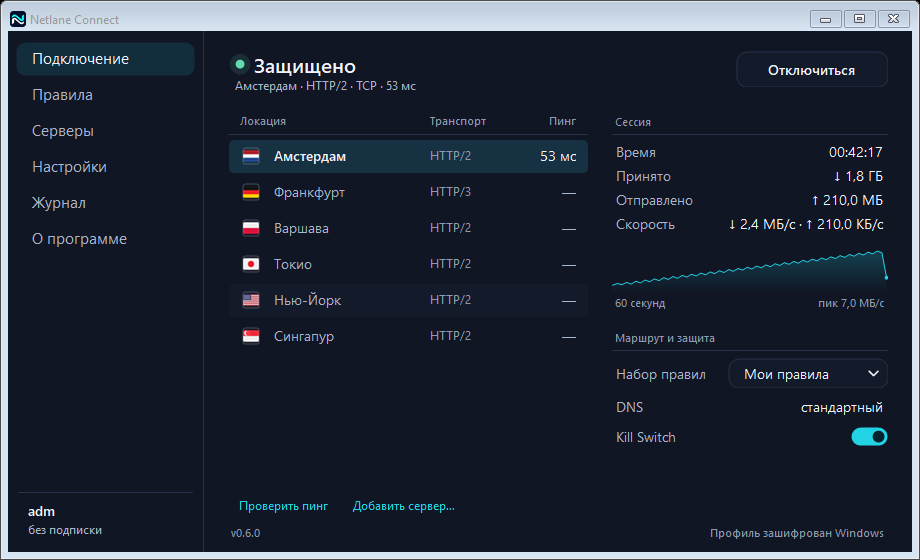
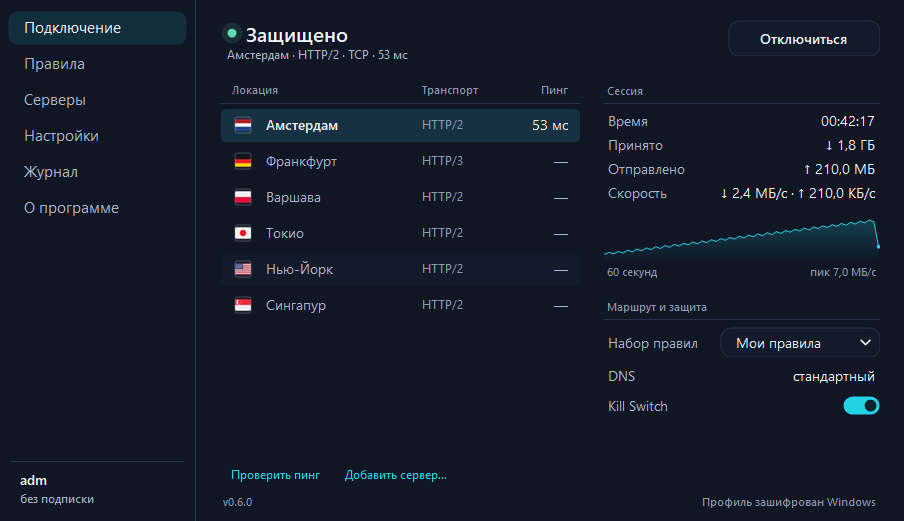
Убрать названия RouteHub, исправить кнопку «Экспорт», скриншот без рамки
- Удалён перенос данных и файлов правил прежнего названия RouteHub
  (папка RouteHubVPN, ключ профиля, формат routehub-rules, *.rhrules).
  Перенос с WinTrustTunnel остаётся.
- Нижние кнопки редактора правил: «Удалить выбранное» → «Удалить»,
  ширины колонок рассчитаны так, чтобы «Экспорт» помещался целиком
  вплоть до минимального размера окна.
- --render сохраняет только клиентскую область: DrawToBitmap рисует
  рамку окна в классическом стиле.
- Скриншот в README без системной рамки.

Claude-Session: https://claude.ai/code/session_01DxZNdbwZNJsFXxsfhcynaT

diff --git a/clients/windows/Tests.cs b/clients/windows/Tests.cs
@@ -392,7 +392,7 @@ namespace Netlane {
             using (SettingsForm settings = new SettingsForm(host)) {
                 RuleSet first = settings.ImportRulesFile(file), second = settings.ImportRulesFile(file);
                 Check(first != null && first.Name == "Office" && first.Routing.Destinations.SequenceEqual(new[] { "office.example.com" }) && second != null && second.Name == "Office (2)", "Dropping Office.netlanerules twice makes «Office» and «Office (2)».");
-                Check(SettingsForm.DropKind(file) == "rules" && SettingsForm.DropKind(@"C:\x\p.TOML") == "server" && SettingsForm.DropKind(@"C:\x\a.wttrules") == "rules" && SettingsForm.DropKind(@"C:\x\a.rhrules") == "rules" && SettingsForm.DropKind("a.exe") == null, "Drop kinds by extension.");
+                Check(SettingsForm.DropKind(file) == "rules" && SettingsForm.DropKind(@"C:\x\p.TOML") == "server" && SettingsForm.DropKind(@"C:\x\a.wttrules") == "rules" && SettingsForm.DropKind("a.exe") == null, "Drop kinds by extension.");
             }
         }
         static void FlagTests() {
@@ -508,10 +508,6 @@ namespace Netlane {
             dir=TempDir();byte[] plain=Encoding.UTF8.GetBytes(Profile.Import(Fixture).Serialize());
             File.WriteAllBytes(Path.Combine(dir,"profile.bin"),ProtectedData.Protect(plain,ProfileStore.LegacyEntropy,DataProtectionScope.CurrentUser));
             m=StateStore.LoadOrMigrate(dir,out notice);Check(notice==null&&m.Servers.Count==1,"Legacy entropy migrates.");
-            // The older RouteHubVPN entropy stays readable too.
-            dir=TempDir();
-            File.WriteAllBytes(Path.Combine(dir,"profile.bin"),ProtectedData.Protect(plain,ProfileStore.LegacyRouteHubEntropy,DataProtectionScope.CurrentUser));
-            m=StateStore.LoadOrMigrate(dir,out notice);Check(notice==null&&m.Servers.Count==1,"RouteHub entropy migrates.");
             // A corrupted profile is left untouched and the client starts empty with a notice.
             dir=TempDir();File.WriteAllBytes(Path.Combine(dir,"profile.bin"),new byte[]{1,2,3,4});
             m=StateStore.LoadOrMigrate(dir,out notice);
@@ -961,7 +957,7 @@ namespace Netlane {
                 string rulesFile=RulesFile.Export(shared);
                 Check(!rulesFile.Contains(profile.Password)&&!rulesFile.Contains(profile.Hostname),"Rules file leaks credentials.");
                 Routing restored=RulesFile.Import(rulesFile);
-                Check(rulesFile.Contains("\"netlane-rules\"")&&RulesFile.Import(rulesFile.Replace("\"netlane-rules\"","\"wintrusttunnel-rules\"")).Destinations.Count==restored.Destinations.Count&&RulesFile.Import(rulesFile.Replace("\"netlane-rules\"","\"routehub-rules\"")).Destinations.Count==restored.Destinations.Count,"Rules files from earlier versions are not importable.");
+                Check(rulesFile.Contains("\"netlane-rules\"")&&RulesFile.Import(rulesFile.Replace("\"netlane-rules\"","\"wintrusttunnel-rules\"")).Destinations.Count==restored.Destinations.Count,"Rules files from earlier versions are not importable.");
                 Check(restored.Mode=="selective"&&restored.Destinations.Count==2&&restored.Destinations[0]=="*.example.com","Rules file round trip failed.");
                 foreach(string malformed in new[]{"{\"format\":\"other\"}","{\"format\":\"netlane-rules\",\"version\":2,\"routing\":{}}","{\"format\":\"netlane-rules\",\"version\":1}","","["}){bool rulesRejected=false;try{RulesFile.Import(malformed);}catch(FormatException){rulesRejected=true;}Check(rulesRejected,"Malformed rules file accepted: "+malformed);}
                 Profile oversized=Profile.Import(Fixture);for(int i=0;i<256;i++)oversized.Routing.Destinations.Add(new string('a',60)+"."+new string('b',60)+"."+new string('c',60)+".route"+i+".example.com");bool oversizedRejected=false;try{oversized.Serialize();}catch(FormatException){oversizedRejected=true;}Check(oversizedRejected,"Oversized profile would exceed worker or storage limits.");

diff --git a/clients/windows/RuleSetEditor.cs b/clients/windows/RuleSetEditor.cs
@@ -8,7 +8,7 @@ using System.Windows.Forms;
 
 namespace Netlane {
     // Editor of one rule set (spec §3), the former routing window as a control: mode, tabs with
-    // counts, the active list, and one footer row «Импорт · Экспорт · Удалить выбранное … Сохранить»
+    // counts, the active list, and one footer row «Импорт · Экспорт · Удалить … Сохранить»
     // docked to the bottom so it stays in place however the window is resized.
     internal sealed class RuleSetEditor : UserControl {
         internal Routing Value { get; private set; }
@@ -58,9 +58,9 @@ namespace Netlane {
             Label help = MainForm.TextLabel("Без порта и без http://, например example.com, *.example.com, 192.0.2.5, 10.0.0.0/8.", Theme.SmallSize, Theme.Faint); help.Margin = new Padding(0, 6, 0, 0); layout.Controls.Add(help, 0, 4);
             // Footer: one row, buttons sized to their text, «Сохранить» in the right corner.
             TableLayoutPanel footer = new TableLayoutPanel { Dock = DockStyle.Fill, ColumnCount = 5, RowCount = 1, Margin = new Padding(0), BackColor = Theme.Ground };
-            footer.ColumnStyles.Add(new ColumnStyle(SizeType.Absolute, 92)); footer.ColumnStyles.Add(new ColumnStyle(SizeType.Absolute, 92)); footer.ColumnStyles.Add(new ColumnStyle(SizeType.Absolute, 168)); footer.ColumnStyles.Add(new ColumnStyle(SizeType.Percent, 100)); footer.ColumnStyles.Add(new ColumnStyle(SizeType.Absolute, 124));
+            footer.ColumnStyles.Add(new ColumnStyle(SizeType.Absolute, 94)); footer.ColumnStyles.Add(new ColumnStyle(SizeType.Absolute, 104)); footer.ColumnStyles.Add(new ColumnStyle(SizeType.Absolute, 100)); footer.ColumnStyles.Add(new ColumnStyle(SizeType.Percent, 100)); footer.ColumnStyles.Add(new ColumnStyle(SizeType.Absolute, 112));
             footer.RowStyles.Add(new RowStyle(SizeType.Percent, 100));
-            Button import = MainForm.Button("Импорт", false), export = MainForm.Button("Экспорт", false), removeSelected = MainForm.Button("Удалить выбранное", false), save = MainForm.Button("Сохранить", true);
+            Button import = MainForm.Button("Импорт", false), export = MainForm.Button("Экспорт", false), removeSelected = MainForm.Button("Удалить", false), save = MainForm.Button("Сохранить", true);
             import.Margin = new Padding(0, 0, 8, 0); export.Margin = new Padding(0, 0, 8, 0); removeSelected.Margin = new Padding(0); save.Margin = new Padding(0);
             footer.Controls.Add(import, 0, 0); footer.Controls.Add(export, 1, 0); footer.Controls.Add(removeSelected, 2, 0); footer.Controls.Add(save, 4, 0);
             layout.Controls.Add(footer, 0, 5);
@@ -87,7 +87,7 @@ namespace Netlane {
                 }
             };
             import.Click += delegate {
-                using (OpenFileDialog dialog = new OpenFileDialog { Filter = "Правила Netlane (*.netlanerules;*.wttrules;*.rhrules;*.json)|*.netlanerules;*.wttrules;*.rhrules;*.json", Title = "Импорт правил в этот набор" }) {
+                using (OpenFileDialog dialog = new OpenFileDialog { Filter = "Правила Netlane (*.netlanerules;*.wttrules;*.json)|*.netlanerules;*.wttrules;*.json", Title = "Импорт правил в этот набор" }) {
                     if (dialog.ShowDialog(this) != DialogResult.OK) return;
                     try {
                         if (new FileInfo(dialog.FileName).Length > 65536) throw new FormatException("Файл правил слишком большой.");

diff --git a/clients/windows/Profile.cs b/clients/windows/Profile.cs
@@ -128,18 +128,15 @@ namespace Netlane {
         internal static readonly byte[] Entropy = Encoding.UTF8.GetBytes("Netlane.profile.v1");
         // Profiles saved before the rename: read once, then re-encrypted with the current entropy.
         internal static readonly byte[] LegacyEntropy = Encoding.UTF8.GetBytes("WinTrustTunnel.profile.v1");
-        internal static readonly byte[] LegacyRouteHubEntropy = Encoding.UTF8.GetBytes("RouteHubVPN.profile.v1");
         internal const string DataFolder = "Netlane";
         internal const string LegacyDataFolder = "WinTrustTunnel";
-        internal const string LegacyRouteHubDataFolder = "RouteHubVPN";
         internal static string DataDirectory { get { return MigrateDataDirectory(Environment.GetFolderPath(Environment.SpecialFolder.LocalApplicationData)); } }
         // Moves the profile and log folder of a former app name once; keeps using it if the move is impossible.
         internal static string MigrateDataDirectory(string root) {
             string current = Path.Combine(root, DataFolder);
             if (Directory.Exists(current)) return current;
-            foreach (string legacyName in new[] { LegacyDataFolder, LegacyRouteHubDataFolder }) {
-                string legacy = Path.Combine(root, legacyName);
-                if (!Directory.Exists(legacy)) continue;
+            string legacy = Path.Combine(root, LegacyDataFolder);
+            if (Directory.Exists(legacy)) {
                 try { Directory.Move(legacy, current); return current; }
                 catch (IOException) { return legacy; }
                 catch (UnauthorizedAccessException) { return legacy; }
@@ -163,8 +160,7 @@ namespace Netlane {
             try { plain = ProtectedData.Unprotect(sealedBytes, Entropy, DataProtectionScope.CurrentUser); }
             catch (CryptographicException) {
                 legacy = true;
-                try { plain = ProtectedData.Unprotect(sealedBytes, LegacyEntropy, DataProtectionScope.CurrentUser); }
-                catch (CryptographicException) { plain = ProtectedData.Unprotect(sealedBytes, LegacyRouteHubEntropy, DataProtectionScope.CurrentUser); }
+                plain = ProtectedData.Unprotect(sealedBytes, LegacyEntropy, DataProtectionScope.CurrentUser);
             }
             Profile profile;
             try { profile = Profile.Deserialize(Encoding.UTF8.GetString(plain)); } finally { Array.Clear(plain, 0, plain.Length); }

diff --git a/clients/windows/Routing.cs b/clients/windows/Routing.cs
@@ -82,9 +82,8 @@ namespace Netlane {
     // Portable rules file: deliberately contains no credentials, hostname or password.
     public static class RulesFile {
         public const string Format = "netlane-rules";
-        // Files exported by the former product names (*.wttrules, *.rhrules) stay importable.
+        // Files exported under the former product name (*.wttrules) stay importable.
         public const string LegacyFormat = "wintrusttunnel-rules";
-        public const string LegacyRouteHubFormat = "routehub-rules";
         public const int Version = 1;
         sealed class Envelope {
             public string Format { get; set; }
@@ -100,7 +99,7 @@ namespace Netlane {
             Envelope envelope;
             try { envelope = new JavaScriptSerializer { MaxJsonLength = 65536 }.Deserialize<Envelope>(text.Trim().TrimStart('\uFEFF')); }
             catch (Exception) { throw new FormatException("Файл не является файлом правил Netlane."); }
-            if (envelope == null || (envelope.Format != Format && envelope.Format != LegacyFormat && envelope.Format != LegacyRouteHubFormat)) throw new FormatException("Файл не является файлом правил Netlane.");
+            if (envelope == null || (envelope.Format != Format && envelope.Format != LegacyFormat)) throw new FormatException("Файл не является файлом правил Netlane.");
             if (envelope.Version != Version) throw new FormatException("Версия файла правил не поддерживается: " + envelope.Version + ".");
             if (envelope.Routing == null) throw new FormatException("В файле нет правил маршрутизации.");
             envelope.Routing.Validate();

diff --git a/clients/windows/Program.cs b/clients/windows/Program.cs
@@ -54,7 +54,14 @@ namespace Netlane {
                         preview.Show(); Application.DoEvents();
                         string dump = Environment.GetEnvironmentVariable("NETLANE_LAYOUT_DUMP");
                         if (!String.IsNullOrEmpty(dump)) DumpLayout(preview, dump);
-                        using (Bitmap bitmap = new Bitmap(preview.Width, preview.Height)) { preview.DrawToBitmap(bitmap, new Rectangle(Point.Empty, preview.Size)); bitmap.Save(request.Output); }
+                        // Only the client area: DrawToBitmap paints the window frame in the classic style,
+                        // which is not what Windows 10 and 11 show.
+                        using (Bitmap bitmap = new Bitmap(preview.Width, preview.Height)) {
+                            preview.DrawToBitmap(bitmap, new Rectangle(Point.Empty, preview.Size));
+                            Point client = preview.PointToScreen(Point.Empty);
+                            Rectangle area = Rectangle.Intersect(new Rectangle(client.X - preview.Left, client.Y - preview.Top, preview.ClientSize.Width, preview.ClientSize.Height), new Rectangle(Point.Empty, bitmap.Size));
+                            using (Bitmap content = bitmap.Clone(area, bitmap.PixelFormat)) content.Save(request.Output);
+                        }
                     } catch (Exception error) { Console.Error.WriteLine("render failed: " + error); return 3; }
                 }
                 return 0;

diff --git a/clients/windows/SettingsDrop.cs b/clients/windows/SettingsDrop.cs
@@ -5,7 +5,7 @@ using System.Linq;
 using System.Windows.Forms;
 
 namespace Netlane {
-    // Drag and drop (spec §4): a .toml adds a server, a .netlanerules/.wttrules/.rhrules becomes a new rule set.
+    // Drag and drop (spec §4): a .toml adds a server, a .netlanerules/.wttrules becomes a new rule set.
     internal sealed partial class SettingsForm {
         // Drops land on whatever control is under the cursor: accept them on the whole tree, each control once.
         internal static void AcceptDrops(Control root, Action<string> dropped) {
@@ -26,7 +26,7 @@ namespace Netlane {
         // "server", "rules" or null for files the app does not take.
         internal static string DropKind(string path) {
             string ext = (Path.GetExtension(path ?? "") ?? "").ToLowerInvariant();
-            return ext == ".toml" ? "server" : ext == ".netlanerules" || ext == ".wttrules" || ext == ".rhrules" ? "rules" : null;
+            return ext == ".toml" ? "server" : ext == ".netlanerules" || ext == ".wttrules" ? "rules" : null;
         }
         internal static string DroppedFile(IDataObject data) {
             if (data == null || !data.GetDataPresent(DataFormats.FileDrop)) return null;

diff --git a/clients/windows/QA.md b/clients/windows/QA.md
@@ -59,7 +59,7 @@
 - [ ] Трей: меню отражает подключение, выбранный сервер и набор; переключение из трея при скрытом окне даёт уведомление «Подключено: X»; обрыв сети — «Соединение потеряно, переподключаюсь»; Kill Switch — своё уведомление; при видимом окне уведомлений нет.
 - [ ] Крестик с «Закрытие окна сворачивает в трей» прячет окно (первый раз — уведомление «работает в трее»); без него крестик отключает VPN и закрывает приложение; выключение Windows закрывает приложение без вопросов.
 - [ ] «Запускать вместе с Windows»: после выхода и входа в Windows приложение в трее без окна; с «Подключаться к последнему серверу при запуске» VPN включается сам; выключение опции удаляет значение из `HKCU\Software\Microsoft\Windows\CurrentVersion\Run`.
-- [ ] Перетаскивание: `.toml` на главное окно и на «Серверы» добавляет сервер; `.netlanerules`/`.wttrules`/`.rhrules` на любое окно создаёт набор с именем файла, повтор — «(2)».
+- [ ] Перетаскивание: `.toml` на главное окно и на «Серверы» добавляет сервер; `.netlanerules`/`.wttrules` на любое окно создаёт набор с именем файла, повтор — «(2)».
 - [ ] Масштаб 100 %, 125 %, 150 %, 200 %: главное окно, «Настройки» на всех вкладках, меню серверов и трея — ничего не обрезано; «Сохранить» редактора правил в правом нижнем углу при любом размере окна, растягивание не оставляет артефактов; флаги чёткие (20×15 до 18 px, 40×30 выше).
 
 ## Визуальная проверка нового дизайна

diff --git a/docs/releases/wintrusttunnel-0.2.0.md b/docs/releases/wintrusttunnel-0.2.0.md
@@ -5,6 +5,6 @@
 - Переработанный интерфейс: графитовая палитра, бирюза только на главных действиях, шестерёнка настроек в шапке вместо кнопки, которая наезжала на заголовок.
 - Кольцо подключения меняет цвет по состоянию: подключено, переподключение, Kill Switch, ошибка.
 - Под кнопкой — время сессии и объём трафика по счётчикам VPN-адаптера.
-- Настройки: переключатель HTTP/2 / HTTP/3, тумблеры Kill Switch и Anti-DPI. Маршрутизация: вкладки со счётчиками, правила в файлах `.wttrules` (старые `.rhrules` открываются).
+- Настройки: переключатель HTTP/2 / HTTP/3, тумблеры Kill Switch и Anti-DPI. Маршрутизация: вкладки со счётчиками, правила в файлах `.wttrules`.
 - При переподключении виден номер попытки; трафик считается только по работающему адаптеру VPN.
 - Профиль из прежних сборок переносится и перешифровывается автоматически при первом запуске.
